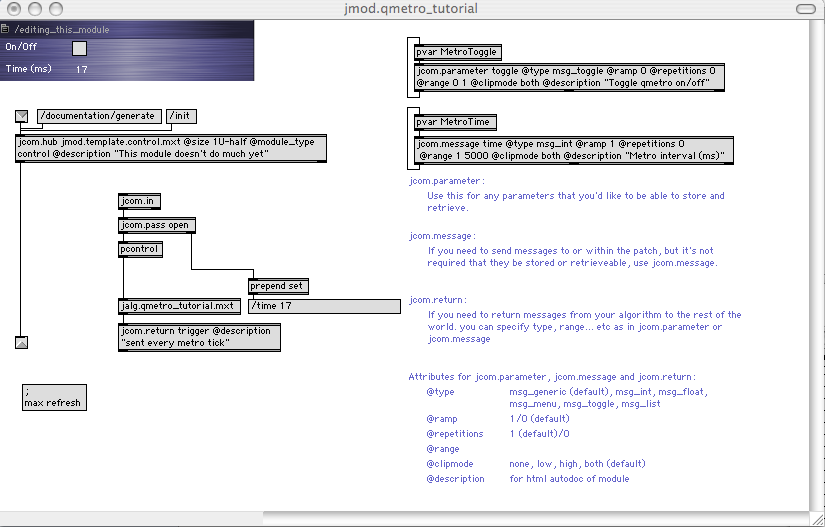
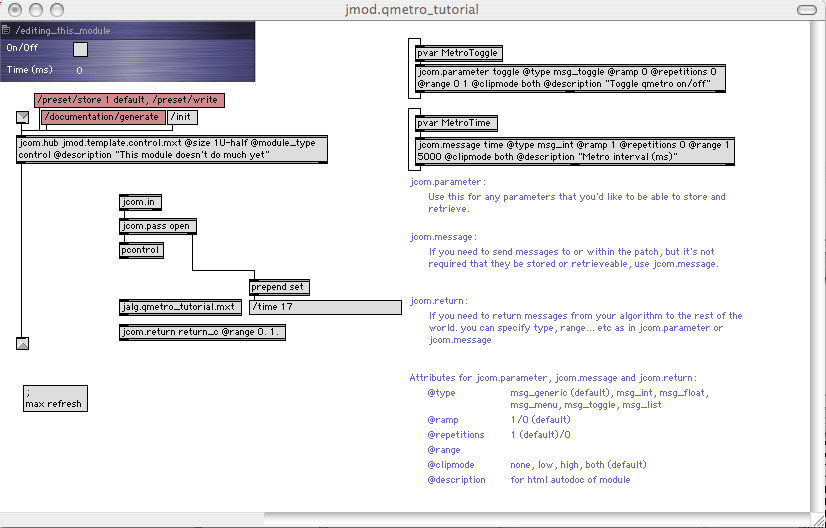
some updates to the html doc and templates
git-svn-id: https://jamoma.svn.sourceforge.net/svnroot/jamoma/trunk@1498 464221e2-0a0f-0410-983b-f8d57d210c17

diff --git a/Jamoma/documentation/html/making_modules.html b/Jamoma/documentation/html/making_modules.html
@@ -8,7 +8,7 @@
 </head>
 
 <body>
-	<div id="jmod_header">
+	<div id="jcom_header">
 	<img src="../images/jmod.icon.mod.png" width="128" height="128">
 	<h1>jamoma recipe: make your own audio module </h1>
 	<h2>a step-by-step tutorial for creating modules </h2>
@@ -17,32 +17,34 @@
 </div>
 	<h3>Ingredients</h3>
 		<ul>
-			<li>jmod.gui (bpatcher)
-			<li>jmod.hub
-			<li>jmod.parameter(s)
+			<li>jcom.gui (bpatcher)
+			<li>jcom.hub
+			<li>jcom.parameter(s) and eventually jcom.message(s) and jcom.return(s)
 			<li>poly~
-			<li>pattrstorage
 		</ul>
 		<h3>Step 1: Develop an algorithm</h3>
 		<p>Audio modules will typically have the actual audio calculations encapsulated in MSP's poly~ object. The poly~ object loads a patcher into itself and then provides a number of services for that patch.  These services include muting, downsampling, and polyphonic voice management.  In Jamoma, we refer to the patch that you will load into the poly~ as your module's algorithm.</p>
 		<p>Your algorithm will need inlets and outlets for each audio signal that it will send and receive. The first inlet should double as a way to get control messages into the module.  These control messages will consist of a parameter name followed by one or more arguments.  You can use Max's standard route object to strip off the paramater name and get the actual incoming values from that parameter.  </p>
-		<p>To adhere to the Jamoma Guidelines, this patch should be saved in text format and have an extension of &quot;.alg&quot;.</p>
+		<p>To adhere to the Jamoma Guidelines, this patch should be saved in text format and have a prefix of jalg. and an extension of &quot;.mxt&quot;.</p>
 		<h3>Step 2: Assemble your module</h3>
-		<p>The audio module itself will be a Max patch, also saved in text format but with an extension of &quot;.mod&quot;.  Create the new patcher, and then follow these steps:</p>
+		<p>You should have a look first at the template patches and/or to the tutorials..</p>
+		<p>The audio module itself will be a Max patch, also saved in text format but with a prefix of jmod. (and an extension of &quot;.mxt&quot;).  Create the new patcher, and then follow these steps:</p>
 		<ol>
 			<li>Create an inlet for control input, and additional inlet(s) for audio signals.
 			<li>Create an outlet for control output, and additional outlet(s) for audio signals.
-			<li>Instantiate a jmod.hub object.  The first argument must be #0_ and the second argument should be the name of the module (without the file extension).  Connect the first inlet to the left-most inlet object in your patch.  Connect the first outlet to the left-most outlet object in your patch.
-			<li>Instantiate a bpatcher object. Load the jmod.gui patch that most closely matches your needs in both terms of UI size and the number of audio channels. Give this bpatcher an argument of #0_. Connect the last outlet(s) of this bpatcher object to the last outlet object(s) in your patcher.  Connect the second inlet to the second inlet object in your patch, etc.
-			<li>Instantiate a jmod.parameter object for each parameter that you enabled your algorithm patch to receive.  Connect these to ui widgets (i.e. number boxes or sliders) in the same way you would use the pp object for creating plugins.
-			<li>Instantiate a poly~ object with the name of your algorithm patch as an argument.  Connect the first outlet(s) of the jmod.gui to the inlet(s) of the poly~.  Connect the second outlet of the jmod.hub to the first inlet of the poly~.  Connect the outlet(s) of the poly~ to the last inlet(s) of the jmod.gui.
-			<li>Instantiate a pattrstorage object.  Connect it to the last inlet and outlet of the jmod.hub.
+			<li>Instantiate a jcom.hub object.  The first argument should be the name of the module (without the file extension).  Connect the first inlet to the left-most inlet object in your patch.  Connect the first outlet to the left-most outlet object in your patch.
+			<li>Instantiate a bpatcher object. Load the jcom.gui patch that most closely matches your needs in both terms of UI size and the number of audio channels. 
+			<li>Create a jcom.in (jcom.in~ for audio signals) with the number of inlets of your patcher as argument. Create a jcom.out (jcom.out~ for audio signals) with the number of of outlets of your patcher as argument.
+			<li>Connect the outlet(s) of jcom.out(~) object to the last outlet object(s) in your patcher.  Connect the last inlet object(s) in your patcher to the inlet(s) of jcom.in(~) object.
+			<li>Instantiate a jcom.parameter object for each parameter that you enabled your algorithm patch to receive.  Connect these to ui widgets (i.e. number boxes or sliders) in the same way you would use the pp object for creating plugins.
+			<li>Instantiate a poly~ object with the name of your algorithm patch as an argument.   Connect the first outlet(s) of the jcom.in(~) to the inlet(s) of the poly~, and the next to rightmost to the poly~ leftmost inlet.  Connect the outlet(s) of the poly~ to the inlet(s) of jcom.out(~).
+			<li>Instantiate a pattrstorage object.  Connect it to the last inlet and outlet of the jcom.hub.
 		</ol>
 		<p> It is probably helpful to be looking at a simple module such as the degrade~ module as a template.</p>
 		<h3>Step 3: Create default preset</h3>
 		<p>You should do this.  More coming soon...</p>
 		<h3>Step 4: Write the documentation</h3>
-		<p>Write an HTML file names as your module's name (the arg to the jmod.hub) with a .html extension.</p>
+		<p>Write an HTML file names as your module's name (the arg to the jcom.hub) with a .html extension.</p>
 		<p></p>
 	</body>
 

diff --git a/Jamoma/documentation/html/tutorials/build_modules_02a.html b/Jamoma/documentation/html/tutorials/build_modules_02a.html
@@ -244,8 +244,7 @@
 <p><img src="../images/tutorial_02a_winding_up.png"></p>
 <p>Next we want to provide a default preset for the module. First click the &quot;;&nbsp; jcom.init 
   bang&quot; message box so that the module is properly initialized. Then set 
-  time to 40 and the toggle to off, and select &quot;Save Settings...&quot; from 
-  the small pop-up menu in the left upper corner of the module GUI. Save the preset 
+  time to 40 and the toggle to off, then click on the message "/preset/store 1 default, /preset/write". Save the preset 
   as &quot;jcom.qmetro_tutorial.xml&quot; somewhere in the Max search path. Presets for 
   standard Jamoma modules can be found in the <span class="filepath">Jamoma library/presets</span> 
   folder.</p>
